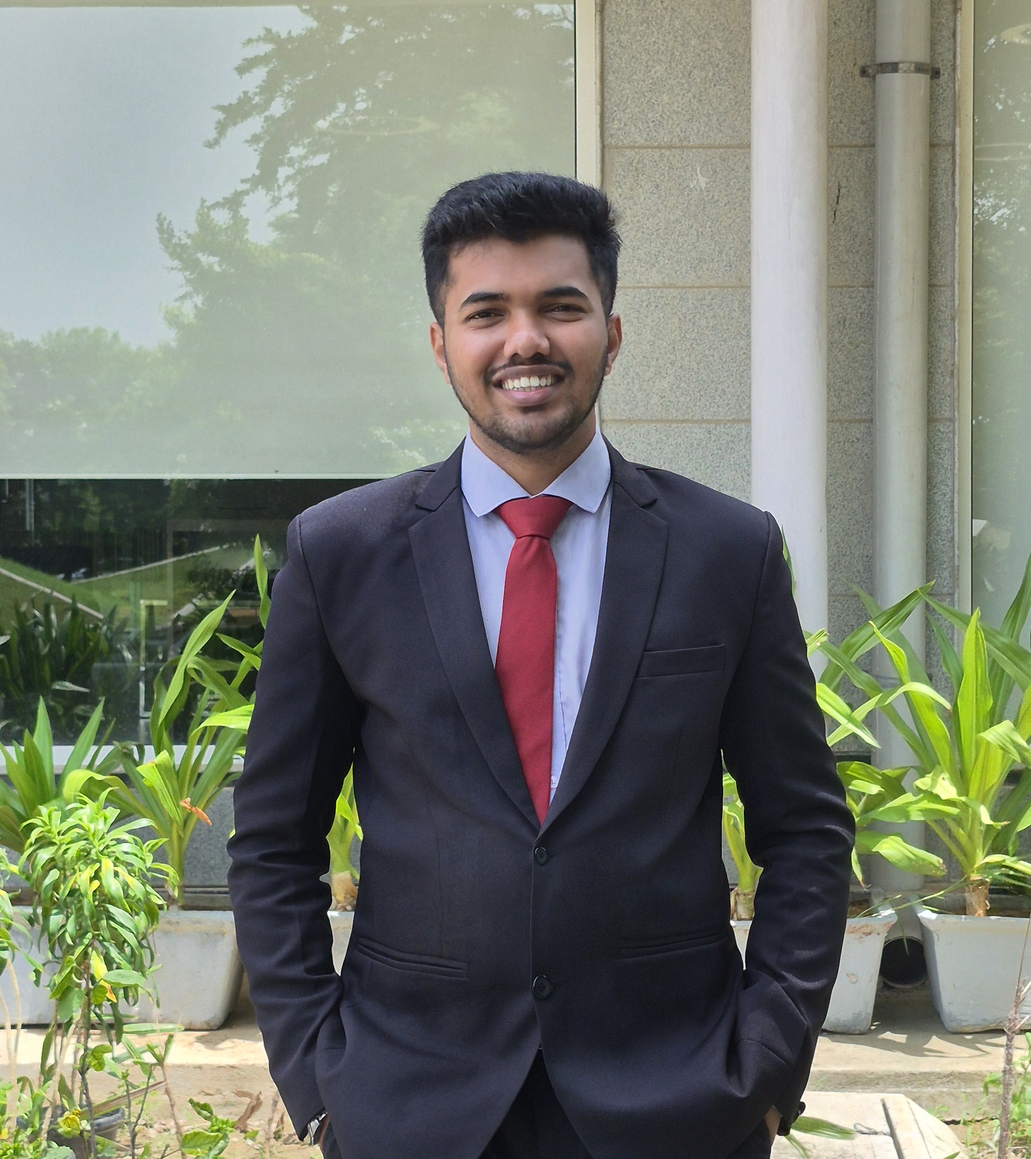
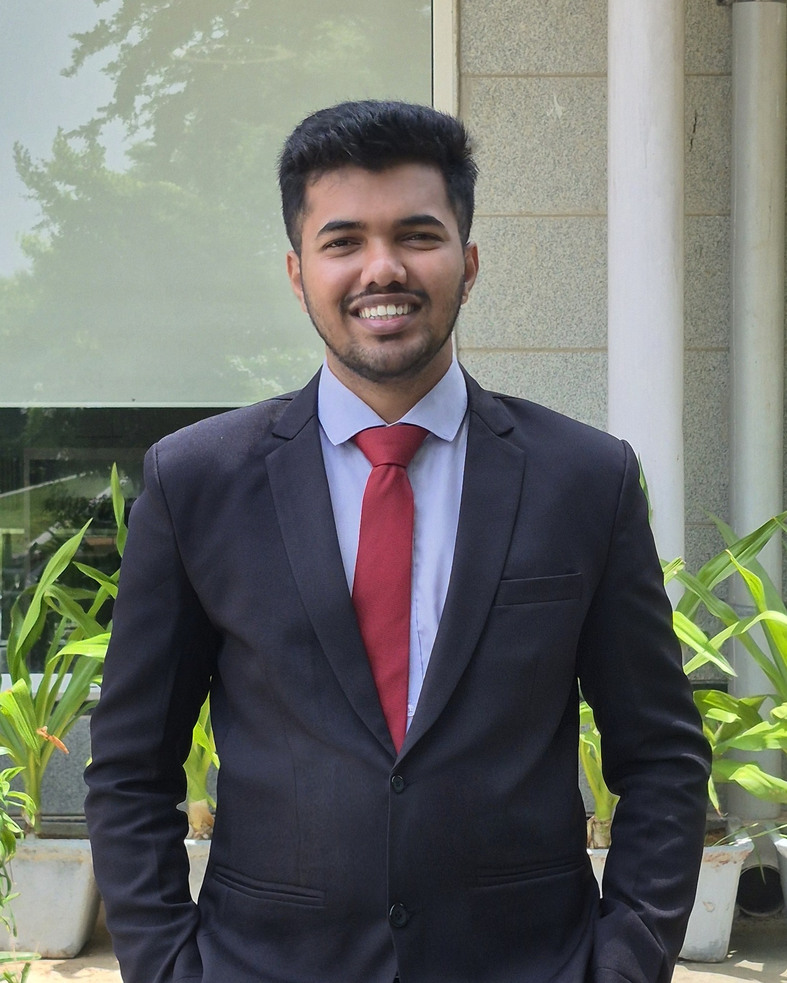
design: tighten hero portrait crop, drop HR from the internship job title

diff --git a/src/lib/site.ts b/src/lib/site.ts
@@ -27,7 +27,7 @@ export type ExperienceEntry = {
 
 export const experience: ExperienceEntry[] = [
   {
-    role: 'Summer Intern, HR Analytics & Operations',
+    role: 'Summer Intern, Analytics & Operations',
     org: 'Ashok Leyland',
     place: 'Alwar Plant 2004, Rajasthan',
     period: 'Apr 2026 - Jun 2026',
